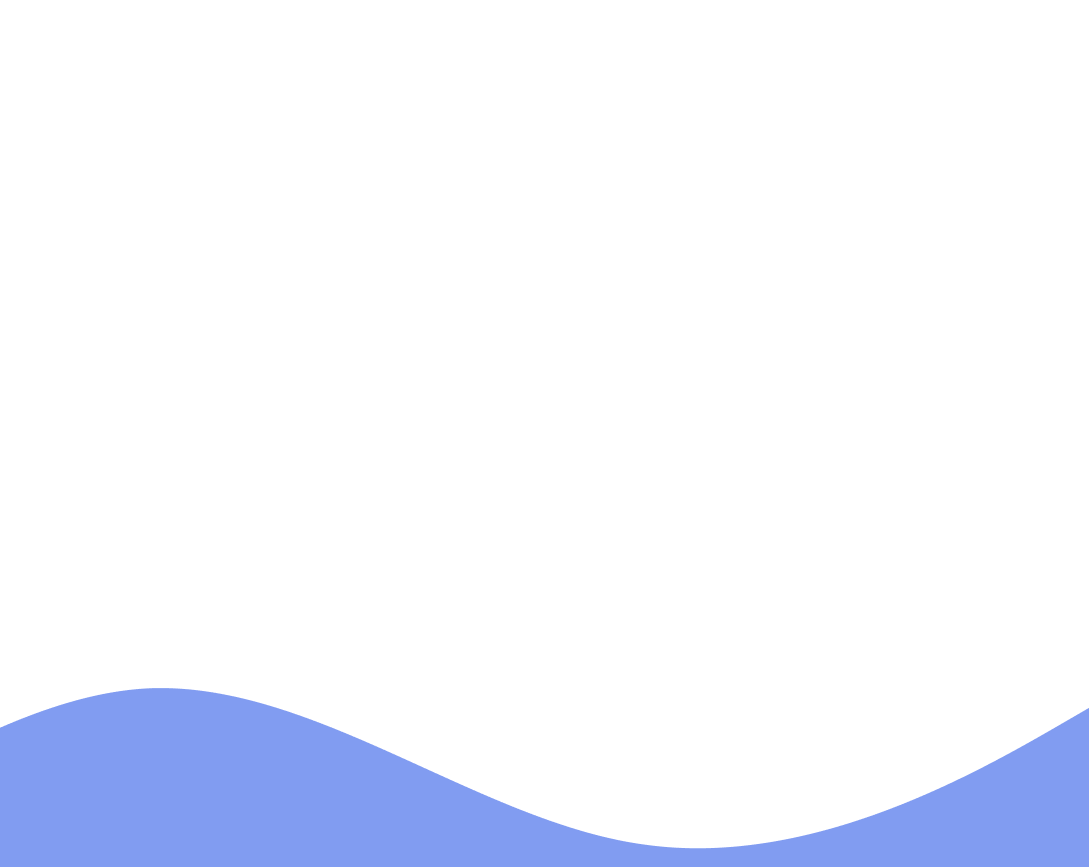
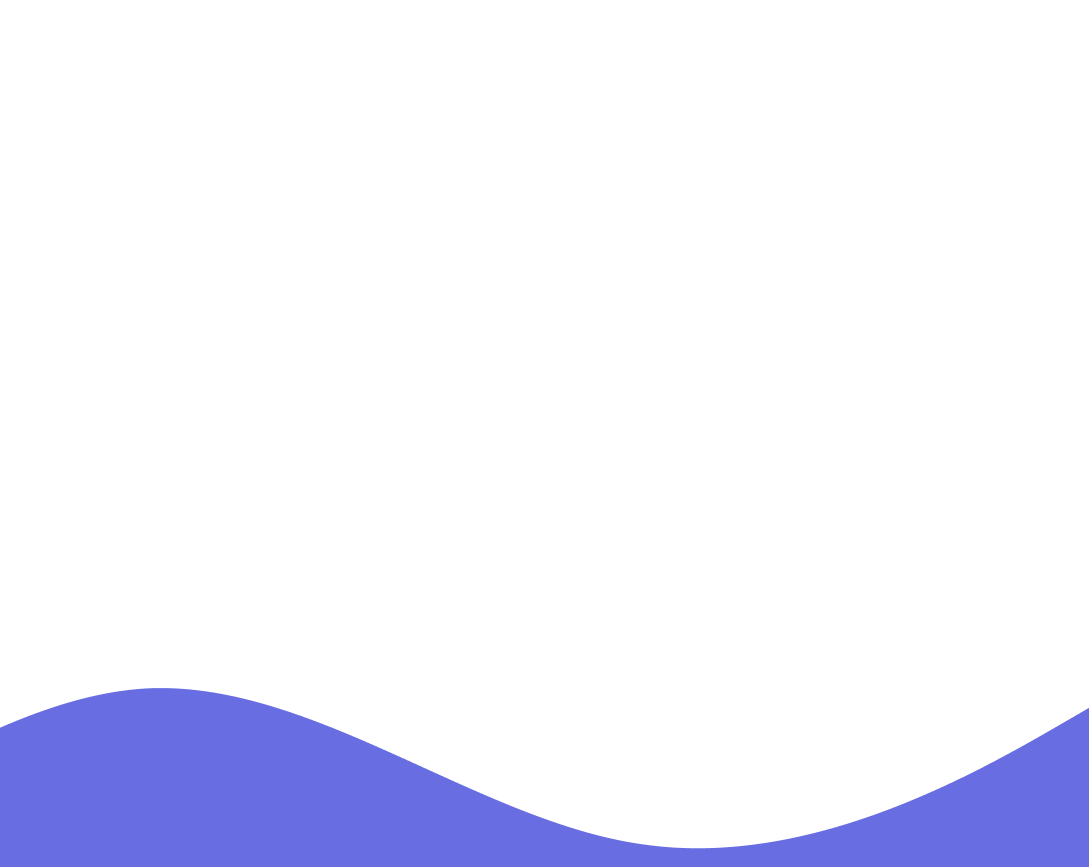
minded-planet homepage color and fonts updated

Changed region(s): [[0.0, 0.7785, 1.0, 1.0]]

diff --git a/website2/CSS/web2.css b/website2/CSS/web2.css
@@ -2,6 +2,9 @@
 @import url("https://fonts.googleapis.com/css2?family=Montserrat&display=swap");
 @import url("https://fonts.googleapis.com/css2?family=Varela+Round&display=swap");
 @import url("https://fonts.googleapis.com/css2?family=Belanosima&display=swap");
+@import url("https://fonts.googleapis.com/css2?family=Pacifico&display=swap");
+@import url("https://fonts.googleapis.com/css2?family=Lato&display=swap");
+@import url("https://fonts.googleapis.com/css2?family=Roboto+Slab&display=swap");
 
 html {
     scroll-behavior: smooth;
@@ -27,12 +30,12 @@ body {
     padding: 0.5rem 0.7rem;
     cursor: pointer;
     font-size: 1.2rem;
-    background-color: #3592db;
+    background-color: #5c3d84;
     font-family: "Ysabeau SC", sans-serif;
 }
 
 .apply-btn:hover {
-    background-color: #226da6;
+    background-color: #492b6e;
 }
 
 /* Navbar */
@@ -44,6 +47,16 @@ body {
 
 .container-fluid {
     padding-inline: 2rem;
+}
+
+.navbar .logo {
+    display: flex;
+    align-items: center;
+    gap: 0.6rem;
+}
+
+.navbar .logo img {
+    width: 18%;
 }
 
 .brand {
@@ -107,10 +120,17 @@ body {
     font-size: 2.5rem;
     font-weight: 600;
     color: #575757;
+    font-family: "Lato", sans-serif;
+}
+
+.hero-section .card {
+    border: none;
+    box-shadow: 0px 0px 14px 5px rgb(0 0 0 / 8%);
 }
 
 .hero-section .card-title {
     color: #575757;
+    font-family: "Roboto Slab", serif;
 }
 
 .hero-section .program-card .card-1 .card-middle {
@@ -126,17 +146,12 @@ body {
     gap: 0.8rem;
 }
 
-.hero-section .program-card .card-1 .card-middle .left .tag-1 {
-    background: #7fffd48c;
-    color: #12a775;
-    font-weight: 500;
-    padding: 0px 8px;
-    border-radius: 0.3rem;
-}
-
-.hero-section .program-card .card-1 .card-middle .left .tag-2 {
-    background: #ffc67f8c;
-    color: #a76512;
+.hero-section .program-card .card-1 .card-middle .left .tag-1,
+.hero-section .program-card .card-1 .card-middle .left .tag-2,
+.hero-section .program-card .card-2 .card-middle .left .tag-1,
+.hero-section .program-card .card-2 .card-middle .left .tag-2 {
+    background: #2a2a2a;
+    color: #ffffff;
     font-weight: 500;
     padding: 0px 8px;
     border-radius: 0.3rem;
@@ -155,22 +170,6 @@ body {
     gap: 0.8rem;
 }
 
-.hero-section .program-card .card-2 .card-middle .left .tag-1 {
-    background: #7fbeff8c;
-    color: #124ea7;
-    font-weight: 500;
-    padding: 0px 8px;
-    border-radius: 0.3rem;
-}
-
-.hero-section .program-card .card-2 .card-middle .left .tag-2 {
-    background: #aa7fff8c;
-    color: #540faf;
-    font-weight: 500;
-    padding: 0px 8px;
-    border-radius: 0.3rem;
-}
-
 .hero-section .program-card .card-text {
     font-weight: 500;
     color: #5a5a5a;
@@ -181,13 +180,13 @@ body {
 }
 
 .hero-section .program-card .btn {
-    background-color: #6cc727;
+    background-color: #3c7dd7;
     color: white;
     border: 1px solid;
 }
 
 .hero-section .program-card .btn:hover {
-    background-color: #55a319;
+    background-color: #2b69c1;
 }
 
 /* Card Section */
@@ -200,6 +199,7 @@ body {
 
 .card-section .heading {
     text-align: center;
+    font-family: "Roboto Slab", serif;
 }
 
 .card-section .cards {
@@ -253,7 +253,7 @@ body {
 /* Pitch  section */
 
 .pitch-section {
-    background-color: currentColor;
+    background-color: #293c66;
     padding-block: 2rem;
     display: flex;
     flex-direction: column;
@@ -268,11 +268,13 @@ body {
 
 .pitch-section h3 {
     color: white;
+    font-family: "Roboto Slab", serif;
 }
 
 .pitch-section h4 {
     color: white;
     font-size: 1.3rem;
+    font-weight: 400;
 }
 
 .pitch-section .cards {
@@ -322,6 +324,7 @@ body {
 .curriculum h5 {
     font-size: 1.3rem;
     font-weight: 400;
+    font-family: "Varela Round", sans-serif;
 }
 
 .curriculum .top {
@@ -330,6 +333,10 @@ body {
     gap: 1rem;
     margin-bottom: 2rem;
     align-items: center;
+}
+
+.curriculum .top h3 {
+    font-family: "Pacifico", cursive;
 }
 
 .curriculum .weeks-section {
@@ -345,7 +352,7 @@ body {
     flex-direction: column;
     gap: 1.1rem;
     border-radius: 0.4rem;
-    background-color: #08122c;
+    background-color: #6279b3;
 }
 
 .curriculum .week h3 {
@@ -355,6 +362,11 @@ body {
     color: #08122c;
     padding: 0.2rem 0.6rem;
     border-radius: 0.4rem;
+    font-family: "Pacifico", cursive;
+}
+
+.curriculum .week h4 {
+    font-family: "Roboto Slab", serif;
 }
 
 .curriculum .week ul {
@@ -443,7 +455,7 @@ body {
 
 .masterclass {
     color: white;
-    background-color: #183556;
+    background-color: #686ee2;
     display: grid;
     padding: 5rem 4rem;
     gap: 4rem;
@@ -467,7 +479,7 @@ body {
 }
 
 .masterclass .right-part {
-    background-color: #202124;
+    background-color: #293c66;
     border-radius: 1rem;
     justify-self: center;
     width: 100%;
@@ -484,7 +496,6 @@ body {
     color: white;
     text-align: center;
     font-size: 1.1rem;
-    font-weight: 600;
     font-family: "Varela Round", sans-serif;
 }
 
@@ -525,7 +536,7 @@ body {
 /* Footer */
 
 .footer-container {
-    background-color: #1e3161;
+    background-color: #000000;
 }
 
 .footer-container p {
@@ -545,7 +556,6 @@ body {
 }
 
 .footer .column {
-    justify-self: center;
     display: flex;
     flex-direction: column;
     gap: 0.9rem;
@@ -612,6 +622,10 @@ body {
 @media only screen and (max-width: 800px) {
     .navbar-nav {
         align-items: center;
+    }
+
+    .navbar .logo img {
+        width: 15%;
     }
 
     .hero-section {
@@ -690,6 +704,10 @@ body {
         font-size: 0.9rem;
     }
 
+    .brand {
+        font-size: 1rem;
+    }
+
     .card-section {
         margin-block: 2rem;
     }
@@ -756,6 +774,11 @@ body {
     .faq {
         padding: 2rem 2rem;
         gap: 1.3rem;
+    }
+
+    .footer .column {
+        width: 50%;
+        justify-self: center;
     }
 }
 

diff --git a/website2/web2.html b/website2/web2.html
@@ -20,7 +20,10 @@
 
         <nav class="navbar navbar-expand-lg bg-body-tertiary">
             <div class="container-fluid">
-                <a class="brand" href="web2.html">Minded-Planet</a>
+                <div class="logo">
+                    <img src="./assets/mpIcon.png" alt="Icon" />
+                    <a class="brand" href="web2.html">Minded-Planet</a>
+                </div>
                 <button
                     class="navbar-toggler"
                     type="button"
@@ -116,7 +119,7 @@
                                 Learn industry-leading skills and unlock
                                 high-paid software job opportunities
                             </p>
-                            <a href="#" class="btn">Join Demo</a>
+                            <a href="demo.html" class="btn">Join Demo</a>
                         </div>
                     </div>
 
@@ -125,10 +128,10 @@
                             <h5 class="card-title">Graduate Program</h5>
                             <div class="card-middle">
                                 <div class="left">
-                                    <div class="tag-1">
-                                        Graduates or Working Professionals
+                                    <div class="tag-1">Graduates</div>
+                                    <div class="tag-2">
+                                        Working Professionals
                                     </div>
-                                    <div class="tag-2">Any Degree Or field</div>
                                 </div>
                                 <img src="./assets/img2.jpg" alt="student" />
                             </div>
@@ -136,7 +139,7 @@
                                 Advance your software development skills and
                                 open doors to rewarding job prospects
                             </p>
-                            <a href="#" class="btn">Join Demo</a>
+                            <a href="demo.html" class="btn">Join Demo</a>
                         </div>
                     </div>
                 </div>

diff --git a/website2/pricing.html b/website2/pricing.html
@@ -14,7 +14,10 @@
 
         <nav class="navbar navbar-expand-lg bg-body-tertiary">
             <div class="container-fluid">
-                <a class="brand" href="web2.html">Minded-Planet</a>
+                <div class="logo">
+                    <img src="./assets/mpIcon.png" alt="Icon" />
+                    <a class="brand" href="web2.html">Minded-Planet</a>
+                </div>
                 <button
                     class="navbar-toggler"
                     type="button"
@@ -176,15 +179,11 @@
                     <div class="column">
                         <h3>Quick-Links</h3>
                         <ul>
-                            <li><a href="./web2.html">Home</a></li>
-                            <li><a href="./web2.html#programs">Programs</a></li>
-                            <li><a href="pricing.html">Pricing</a></li>
-                            <li>
-                                <a href="./web2.html#refund">Refund Policy</a>
-                            </li>
-                            <li>
-                                <a href="./web2.html#curriculum">Curriculum</a>
-                            </li>
+                            <li><a href="web2.html">Home</a></li>
+                            <li><a href="#programs">Programs</a></li>
+                            <li><a href="./pricing.html">Pricing</a></li>
+                            <li><a href="#refund">Refund Policy</a></li>
+                            <li><a href="#curriculum">Curriculum</a></li>
                         </ul>
                     </div>
                     <div class="column">

diff --git a/website2/career.html b/website2/career.html
@@ -16,7 +16,10 @@
 
         <nav class="navbar navbar-expand-lg bg-body-tertiary">
             <div class="container-fluid">
-                <a class="brand" href="web2.html">Minded-Planet</a>
+                <div class="logo">
+                    <img src="./assets/mpIcon.png" alt="Icon" />
+                    <a class="brand" href="web2.html">Minded-Planet</a>
+                </div>
                 <button
                     class="navbar-toggler"
                     type="button"

diff --git a/website2/demo.html b/website2/demo.html
@@ -14,7 +14,10 @@
 
         <nav class="navbar navbar-expand-lg bg-body-tertiary">
             <div class="container-fluid">
-                <a class="brand" href="web2.html">Minded-Planet</a>
+                <div class="logo">
+                    <img src="./assets/mpIcon.png" alt="Icon" />
+                    <a class="brand" href="web2.html">Minded-Planet</a>
+                </div>
                 <button
                     class="navbar-toggler"
                     type="button"
